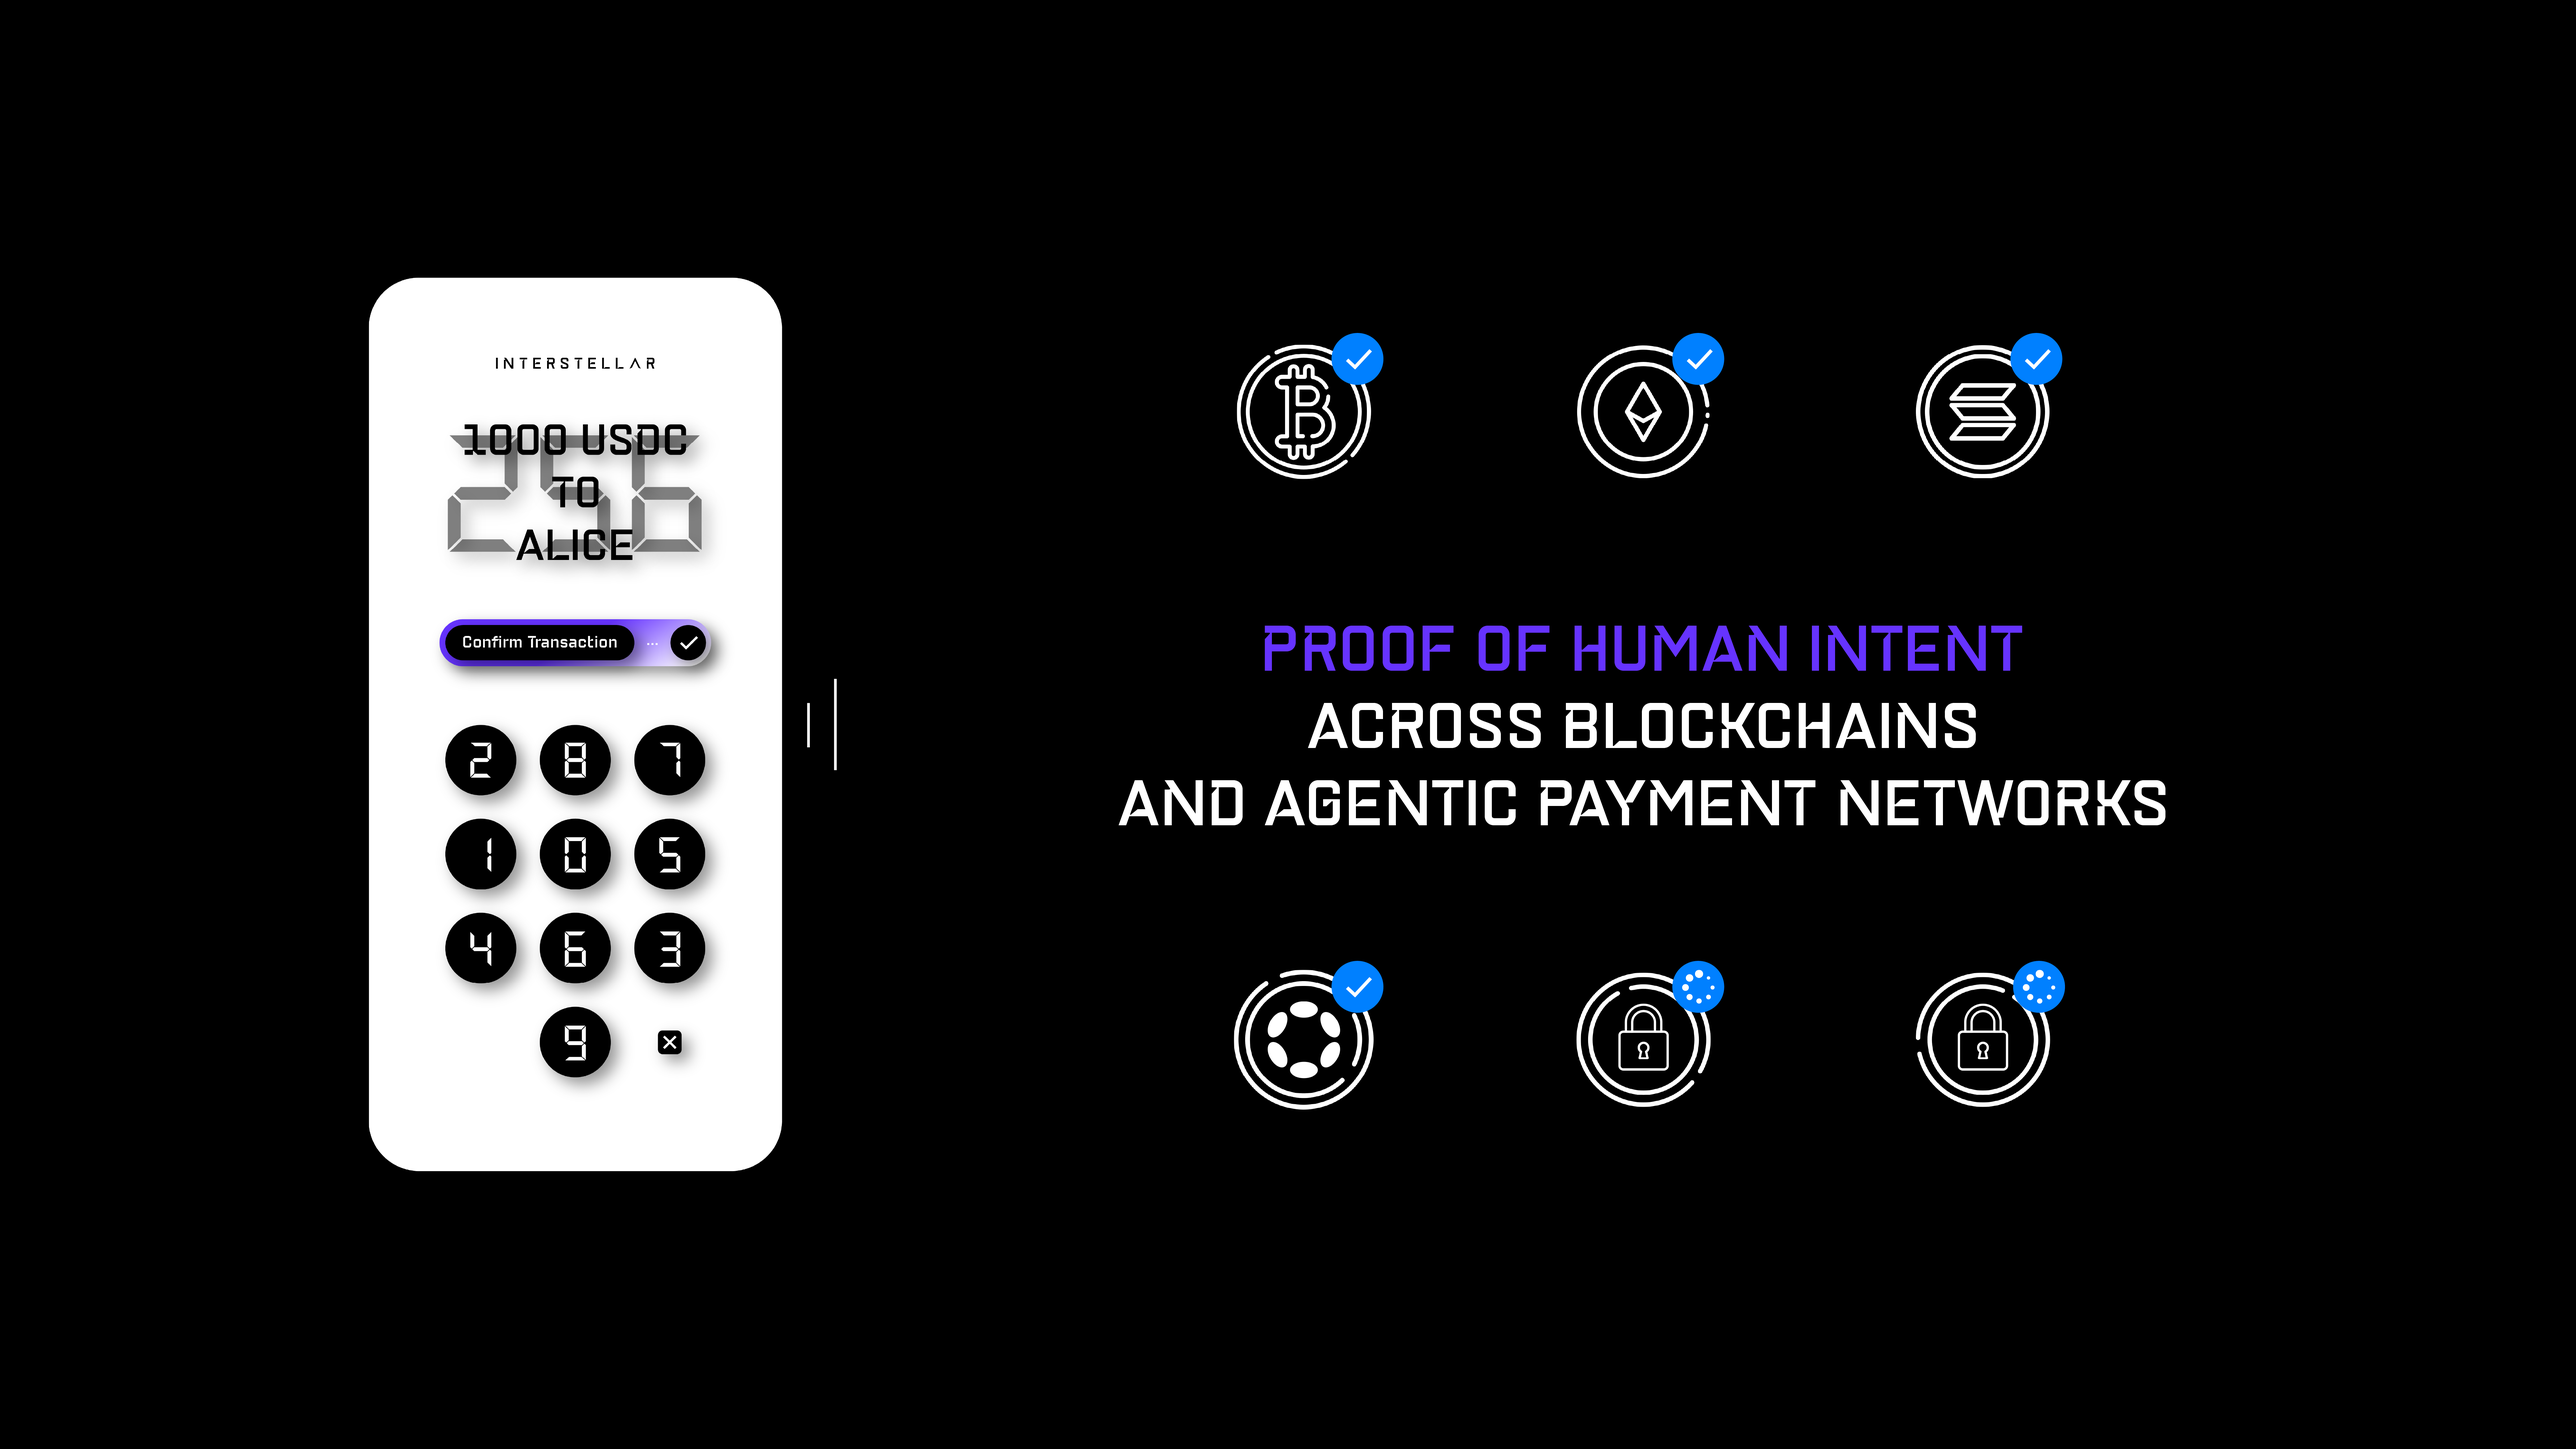
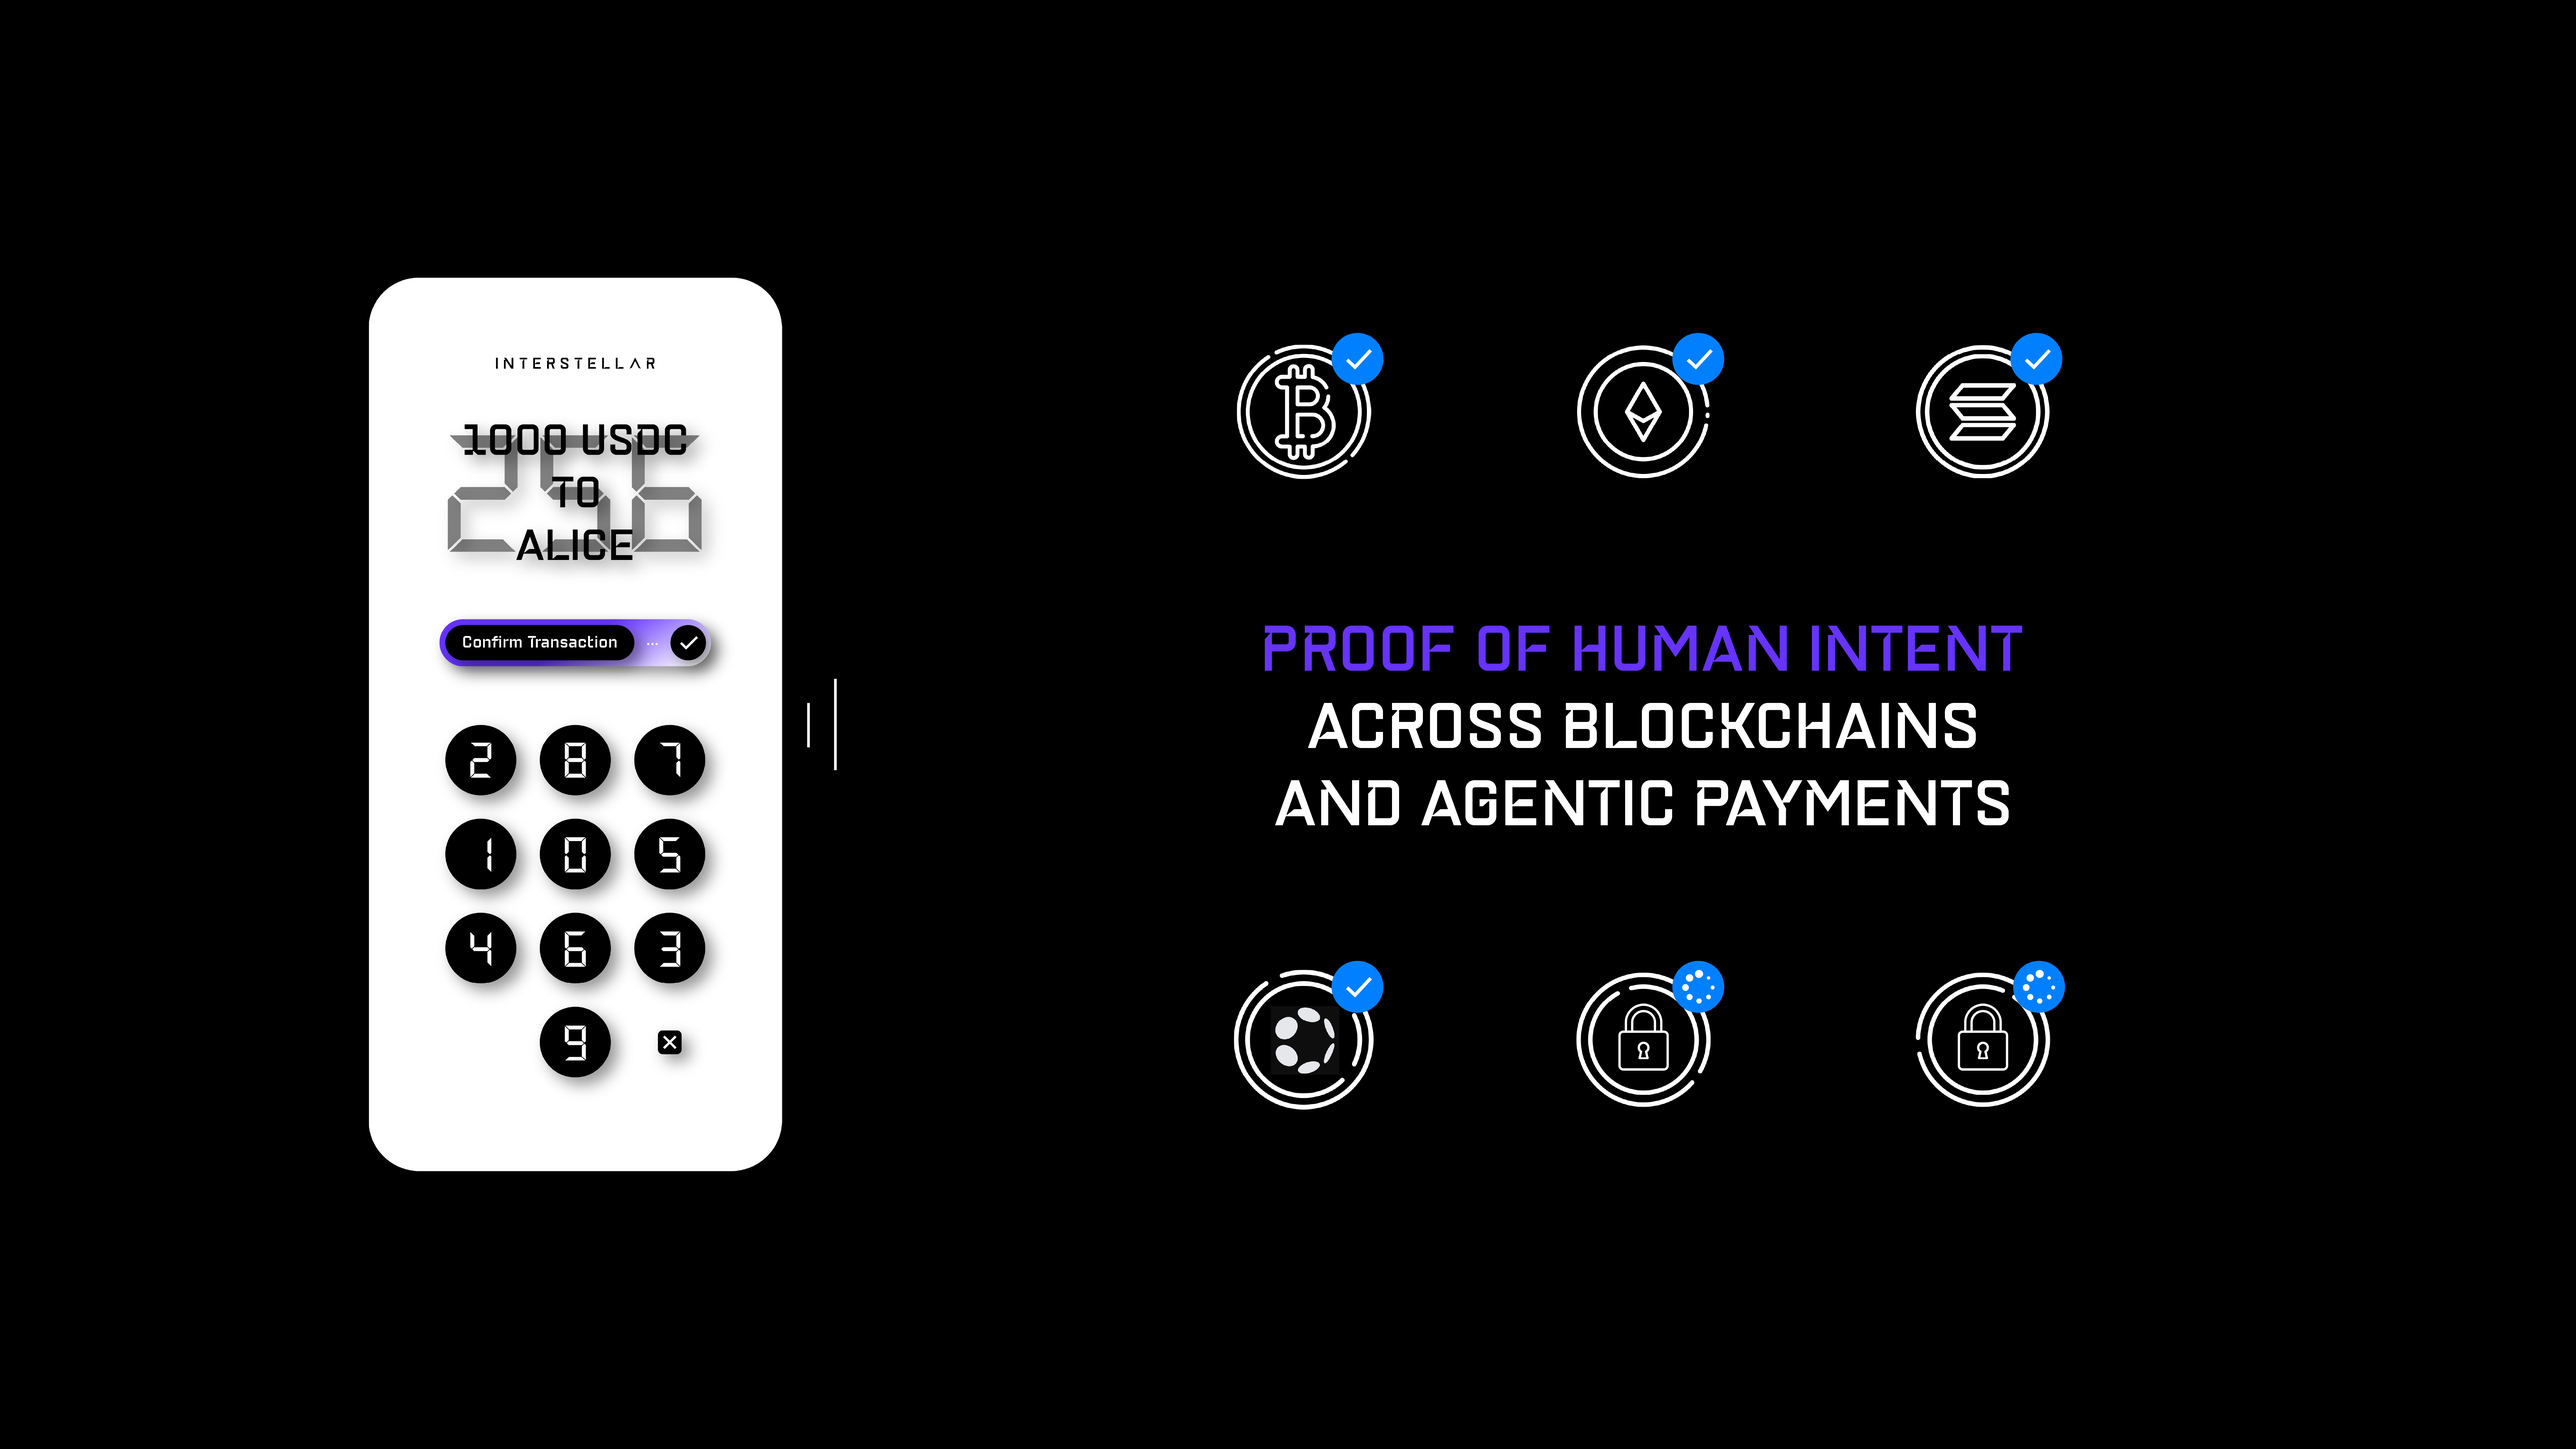
Update docs

Changed region(s): [[0.4375, 0.5289, 0.8438, 0.5911], [0.4688, 0.6844, 0.5312, 0.7467]]

diff --git a/docs/advantages/vs-traditional-authenticators.md b/docs/advantages/vs-traditional-authenticators.md
@@ -8,10 +8,10 @@ sidebar_position: 3
 
 | Aspect | Traditional Authenticators | Interstellar |
 |--------|----------------------------|--------------|
-| **UX: Setup** | Additional app to install; backup codes to store and potential new account to create. | Natively embedded; no separate authenticator app. |
-| **UX: Validation** | Open a separate app, copy or type a 6-digit code; 2+ screens. | Single-screen approval with embedded intent message. |
-| **UX: Recovery** | Requires finding and re-entering complex backup codes; losing the device can lock you out. | Seamless one-tap recovery. |
-| **Security: Validation** | TOTP is not bound to intent; easily compromisable. | Intent cryptographically bound and embedded into a single approval screen. |
+| **UX: Setup** | Additional app to install; backup codes to store and potential new account to create. | Natively embeddeded PoHI; no separate authenticator app. |
+| **UX: Validation** | Open a separate app, copy or type a 6-digit code; 2+ screens. | [Single-screen approval](/features/proof-of-human-intent) with embedded intent message. |
+| **UX: Recovery** | Requires finding and re-entering complex backup codes; losing the device can lock you out. | [Seamless one-tap recovery](/features/secure-account-backup). |
+| **Security: Validation** | TOTP is not bound to intent; easily compromisable. | Intent [cryptographically bound](/proof-of-human-intent/garbled-circuits) and embedded into a single approval screen. |
 | **Security: Centralization** | Provider can hold centralized recovery and sync; provider breach, policy, or account breach affects access. | Recovery and sync manager lives onchain. |
 | **Security: Exposure** | Backup codes and seeded secrets become critical recovery material. | No backup codes or secrets to store. |
-| **Security: Phishing** | TOTP codes and shared-secret factors can be phished, keylogged, or exfiltrated. | Resistant to advanced malware. |
+| **Security: Phishing** | TOTP codes and shared-secret factors can be [phished](/proof-of-human-intent/threat-model), keylogged, or exfiltrated. | Resistant to advanced malware. |

diff --git a/docs/advantages/vs-passkeys-social-logins.md b/docs/advantages/vs-passkeys-social-logins.md
@@ -8,8 +8,8 @@ sidebar_position: 2
 
 | Aspect | Passkeys & Social Logins | Interstellar |
 |--------|--------------------------|--------------|
-| **UX: Setup** | Requires an account with email, password, or phone number. Most [passkeys & social logins](https://x.com/joenrv/status/1857609397607813171) bind auth to that account. | Passkey-like onboarding with no pre-existing account requirement. |
+| **UX: Setup** | Requires an account with email, password, or phone number. Most [passkeys & social logins](https://x.com/joenrv/status/1857609397607813171) bind auth to that account. | Passkey-like onboarding with [no pre-existing account requirement](/features/instant-account-generation). |
 | **UX: Cross-platform** | Tied to the provider's domain, ecosystem, or cloud; switching platforms or devices can be painful. | Neutral, cross-platform, and WebAuthn compatible without vendor lock-in. |
-| **UX: Recovery** | Account recovery via provider (Apple / Google / Microsoft). | Recovery fully under your control; no single provider gate. |
+| **UX: Recovery** | Account recovery via provider (Apple / Google / Microsoft). | [Sovereign recovery](/features/secure-account-backup) fully under your control; no single provider gate. |
 | **Security: Centralization** | Provider holds centralized recovery and sync; provider breach, policy, or account breach affects access. | Recovery and sync manager lives onchain. |
-| **Security: Phishing** | Prone to phishing, malicious connections/approvals, and malware. | Secure even if the wallet or device is fully compromised; no credentials to steal. |
+| **Security: Phishing** | Prone to [phishing](/proof-of-human-intent/threat-model), malicious connections/approvals, and malware. | Secure even if the wallet or device is fully compromised; no credentials to steal. |

diff --git a/docs/features/instant-account-generation.md b/docs/features/instant-account-generation.md
@@ -6,11 +6,13 @@ sidebar_position: 2
 
 # Instant Account Generation
 
-**~70% of users abandon a sign-up form before completing it**. Each additional form field costs roughly 5–10% completion.
+**~70% of users abandon a sign-up form before completing it. Each additional form field costs roughly 5–10% completion.**
 
-**This UX barrier significantly slows down adoption**. Replacing the 'Register' button with 'Continue as Guest' lifted purchases 45% and added $300 million in the first year. Seed phrases also represent a single point of failure for private keys — most newcomers do not understand what they are asked to do or why it matters.
+This UX barrier significantly slows down adoption, espcecially in a world of seed phrases, emails, passwords, and MFAs. Replacing the 'Register' button with 'Continue as Guest' lifted purchases 45% and added $300 million in the first year.
 
-**Interstellar is built for effortless UX** — no login, no password, no email, no phone number, no additional hardware, no seed phrase.
+While social logins & passkeys might seem to be efficient options already, they do carry major [trade-offs](/advantages/vs-passkeys-social-logins).
+
+**Interstellar is built for effortless UX** — no seed phrases, no emails, no passwords, no MFAs, no additional hardware.
 
 **Instantly generate a unified account** with full self-custodial access to [multiple blockchains](/multichain/blockchains), **embedded within your application**. Pair generated accounts with [secure account backups](/features/secure-account-backup) for next-gen recovery.
 

diff --git a/docs/advantages/vs-traditional-wallets.md b/docs/advantages/vs-traditional-wallets.md
@@ -8,8 +8,8 @@ sidebar_position: 1
 
 | Aspect | Traditional Wallets | Interstellar |
 |--------|---------------------|--------------|
-| **UX: Setup** | Complex onboarding with seed phrases, passwords, manual backups, and multiple steps. | Instant onboarding, one-tap backup. |
+| **UX: Setup** | Complex onboarding with seed phrases, passwords, manual backups, and multiple steps. | [Instant onboarding](/features/instant-account-generation), one-tap backup. |
 | **UX: Daily Use** | Switching devices and wallets can be clunky, with repeated logins and approvals. | Consistent experience across devices with streamlined approvals optimized for mobile. |
-| **UX: Recovery** | Requires finding and re-entering long recovery phrases. | Seamless one-tap recovery. |
+| **UX: Recovery** | Requires finding and re-entering long recovery phrases. | [Seamless one-tap recovery](/features/secure-account-backup). |
 | **Security: Exposure** | Single point of failure: seed phrase and private key exposure; irreversible loss if compromised. | No seed phrases or accessible private keys. |
-| **Security: Phishing** | Highly vulnerable to phishing, malicious connections/approvals, and malware. | Secure even if the wallet or device is fully compromised; no credentials to steal. |
+| **Security: Phishing** | Highly vulnerable to [phishing](/proof-of-human-intent/threat-model), malicious connections/approvals, and malware. | Secure even if the wallet or device is fully compromised; no credentials to steal. |

diff --git a/docs/features/secure-account-backup.md b/docs/features/secure-account-backup.md
@@ -14,7 +14,7 @@ Interstellar's underlying technology unlocks **advanced account abstraction and 
 
 ### 1. Backup File
 
-**Backup a** [**freshly generated garbled circuit**](/design/interstellar-blockchain) to your cloud provider of choice, back it up locally, or send it to a trusted contact person.
+**Backup a** [**freshly generated garbled circuit**](/proof-of-human-intent/garbled-circuits) to your cloud provider of choice, back it up locally, or send it to a trusted contact person.
 
 ### 2. Backup Item
 
@@ -39,4 +39,4 @@ Interstellar's backup logic is fundamentally **different from passwords, private
 
 ## Why Multiple Recovery Options
 
-**Some users may require only one recovery method; others might need several**. That’s why Interstellar-recovery-powered accounts and wallets **enable users to securely add, remove, and combine recovery options** at any time, creating a custom multisignature recovery setup. This flexibility is crucial for achieving a healthy balance between user experience and security, which should remain **customizable to meet individual needs**.
+**Some users may require only one recovery method; others might need several**. That’s why **Interstellar enables users to securely add, remove, and combine recovery options at any time**, creating a custom multisignature recovery setup. This flexibility is crucial for achieving a healthy balance between user experience and security, which should remain **customizable to meet individual needs**.

diff --git a/docs/features/proof-of-human-intent.md b/docs/features/proof-of-human-intent.md
@@ -14,7 +14,7 @@ For **non-critical actions**, execution happens **instantly or via simple device
 
 ## 2. Proof of Human Intent
 
-For **critical actions**, execution requires a **[secure PoHI screen](/proof-of-human-intent/dynamic-visual-cryptography)** — prompting the user to input a randomly generated one-time code, enshrined and displayed alongside the intended action.
+For **critical actions**, execution requires an embedded [secure PoHI screen](/proof-of-human-intent/dynamic-visual-cryptography) — prompting the user to input a randomly generated one-time code, enshrined and displayed alongside the intended action.
 
 ### Try the Secure PoHI Screen
 
@@ -39,5 +39,5 @@ If a user **unknowingly initiated a critical action** (due to phishing, blind si
 ![Proof of Human Intent](/img/Proof_Of_Human_Intent_Slide.png)
 
 :::tip
-Dive into the [threat model](/proof-of-human-intent/threat-model) and explore how [Proof of Human Intent](/proof-of-human-intent/overview) counters each threat.
+Dive into the [threat model](/proof-of-human-intent/threat-model) and explore the [dynamic visual cryptography](/proof-of-human-intent/dynamic-visual-cryptography) behind Proof of Human Intent.
 :::

diff --git a/docs/advantages/vs-edr-mtd-security.md b/docs/advantages/vs-edr-mtd-security.md
@@ -8,7 +8,7 @@ sidebar_position: 4
 
 | Aspect | EDR & MTD | Interstellar |
 |--------|-----------|--------------|
-| **UX: Setup** | Install agents, configure policies, train users on alerts and responses. | No setup needed or users to train. |
+| **UX: Setup** | Install agents, configure policies, train users on alerts and responses. | [No setup needed](/features/instant-account-generation) or users to train. |
 | **UX: Performance** | Agents and scans can slow devices; prompts and blocks can interrupt work. | Doesn't require device protection to counter threats; performance unaffected. |
-| **Security: Model** | Detect and respond to threats on the device level. | Protection from threats on the intent level. |
+| **Security: Model** | Detect and respond to threats on the device level. | Protection from threats on the [intent level](/features/proof-of-human-intent#2-proof-of-human-intent). |
 | **Security: Scope** | Focuses on malware, intrusion, and policy violations on devices and networks. | Protects authorization and signing; complements EDR/MTD by securing the intent layer. |

diff --git a/docs/multichain/agents.md b/docs/multichain/agents.md
@@ -6,7 +6,9 @@ sidebar_position: 2
 
 # Agents
 
-**Increase agent productivity** by disturbing them only when necessary. [Critical delegations](/proof-of-human-intent/threat-model) stay under human control, while non-critical flows continue without interuption.
+**Increase agent productivity** by disturbing them only when necessary. Critical delegations stay under human control, while non-critical flows continue without interuption.
+
+🔻 *Current deployment status*
 
 ## Upcoming
 
